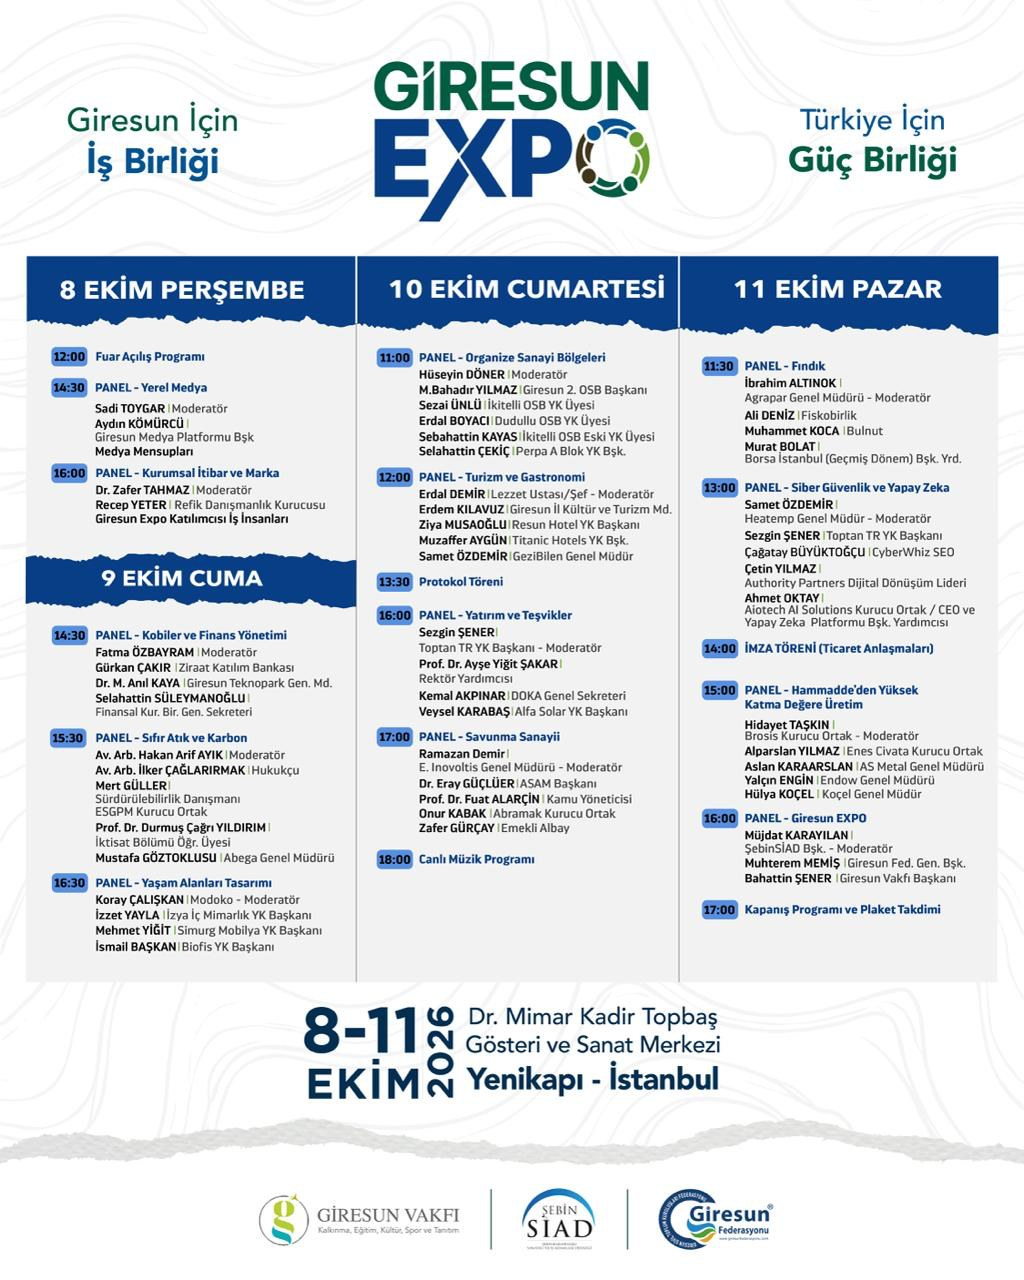
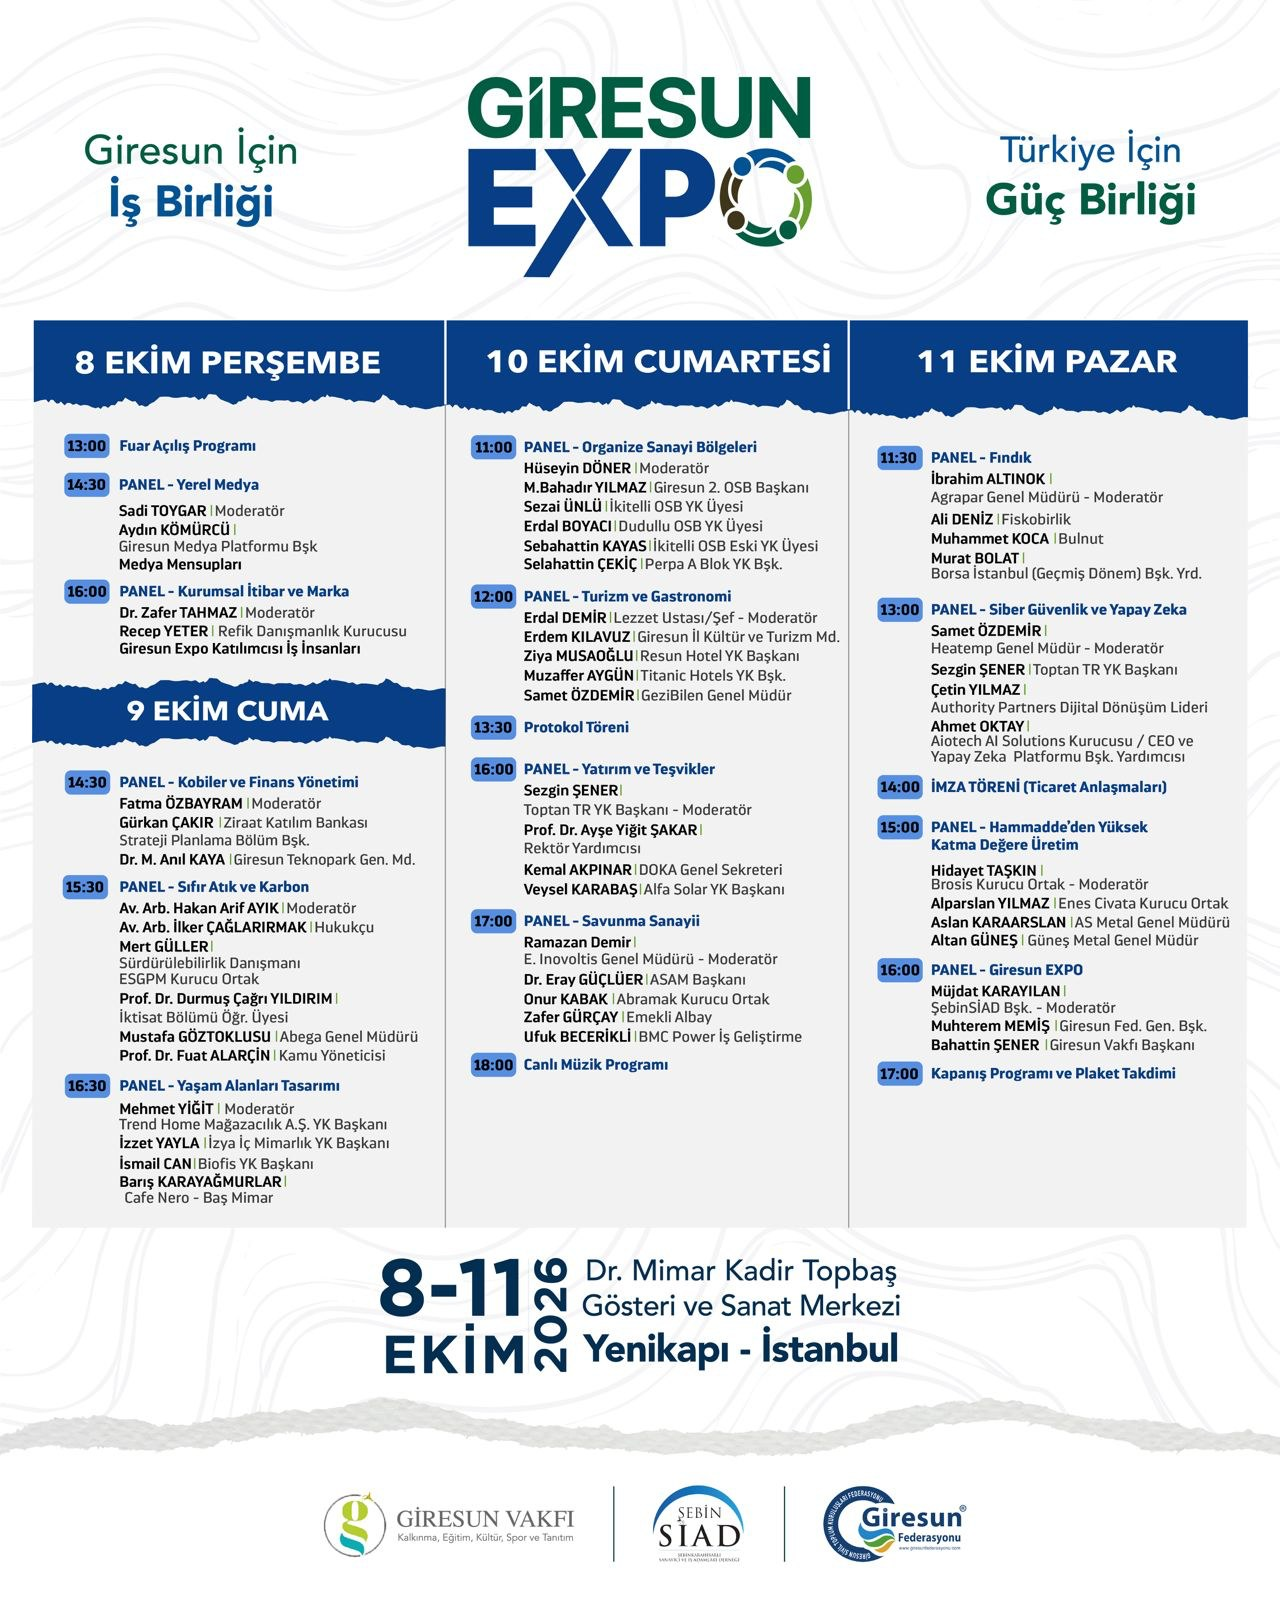
Program: 8 Ekim tarihli guncel afis ve oturum degisiklikleri
- Program afisi yenisiyle degisti (1280x1600).
- 011_program_guncelleme.sql: acilis 13.00; Kobiler, Sifir Atik, Yasam
  Alanlari, Savunma Sanayii, Siber Guvenlik ve Hammadde panellerinde
  konusmaci degisiklikleri (TR/EN). Canli veritabanina uygulandi.

Claude-Session: https://claude.ai/code/session_01W3YAEvN4Liu51zzFyiT1cr

diff --git a/en/program.html b/en/program.html
@@ -103,7 +103,7 @@
           <a class="program-afis__gorsel" href="../assets/img/program/giresun-expo-2026-program.jpg" target="_blank" rel="noopener">
             <picture>
               <source srcset="../assets/img/program/giresun-expo-2026-program.webp" type="image/webp">
-              <img src="../assets/img/program/giresun-expo-2026-program.jpg" alt="Open the programme poster full size" width="1024" height="1280" loading="lazy" decoding="async">
+              <img src="../assets/img/program/giresun-expo-2026-program.jpg" alt="Open the programme poster full size" width="1280" height="1600" loading="lazy" decoding="async">
             </picture>
           </a>
           <div>

diff --git a/program.html b/program.html
@@ -103,7 +103,7 @@
           <a class="program-afis__gorsel" href="assets/img/program/giresun-expo-2026-program.jpg" target="_blank" rel="noopener">
             <picture>
               <source srcset="assets/img/program/giresun-expo-2026-program.webp" type="image/webp">
-              <img src="assets/img/program/giresun-expo-2026-program.jpg" alt="Program afişini büyük boyutta aç" width="1024" height="1280" loading="lazy" decoding="async">
+              <img src="assets/img/program/giresun-expo-2026-program.jpg" alt="Program afişini büyük boyutta aç" width="1280" height="1600" loading="lazy" decoding="async">
             </picture>
           </a>
           <div>
